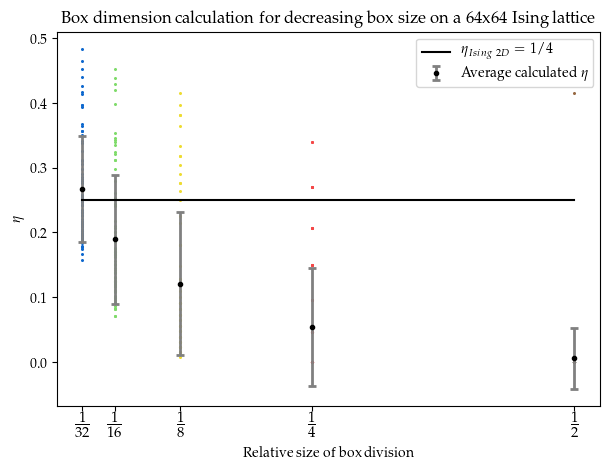
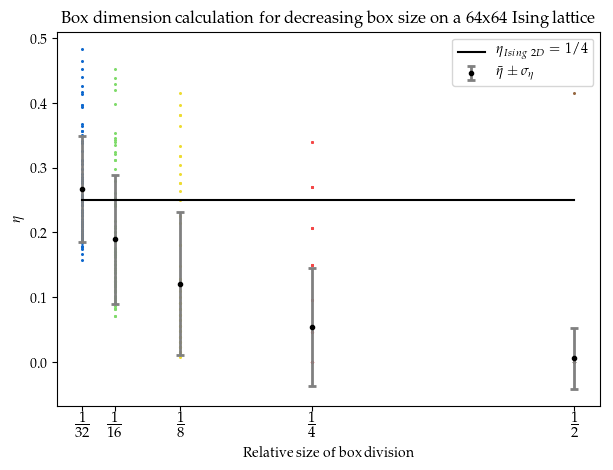
Better labeling on the calculated etas

Changed region(s): [[0.6819, 0.0894, 0.9608, 0.2085]]

diff --git a/cpp/pyplot/get_dim.py b/cpp/pyplot/get_dim.py
@@ -74,7 +74,7 @@ for size in [1/2, 1/4, 1/8, 1/16, 1/32]:
 # plt.scatter(sizes, average_etas, c=list(size_colors.values()), s=40, label=r"Average calculated $\eta$")
 plt.errorbar(sizes, average_etas, yerr=std_average,\
         ecolor='gray', elinewidth=2, fmt='k.', linestyle="None",\
-        capsize=3, capthick=2, label=r"Average calculated $\eta$")
+        capsize=3, capthick=2, label=r"$\bar \eta \pm \sigma_\eta$")
 
 # Plot the real eta as a black line
 real_eta = 1/4
